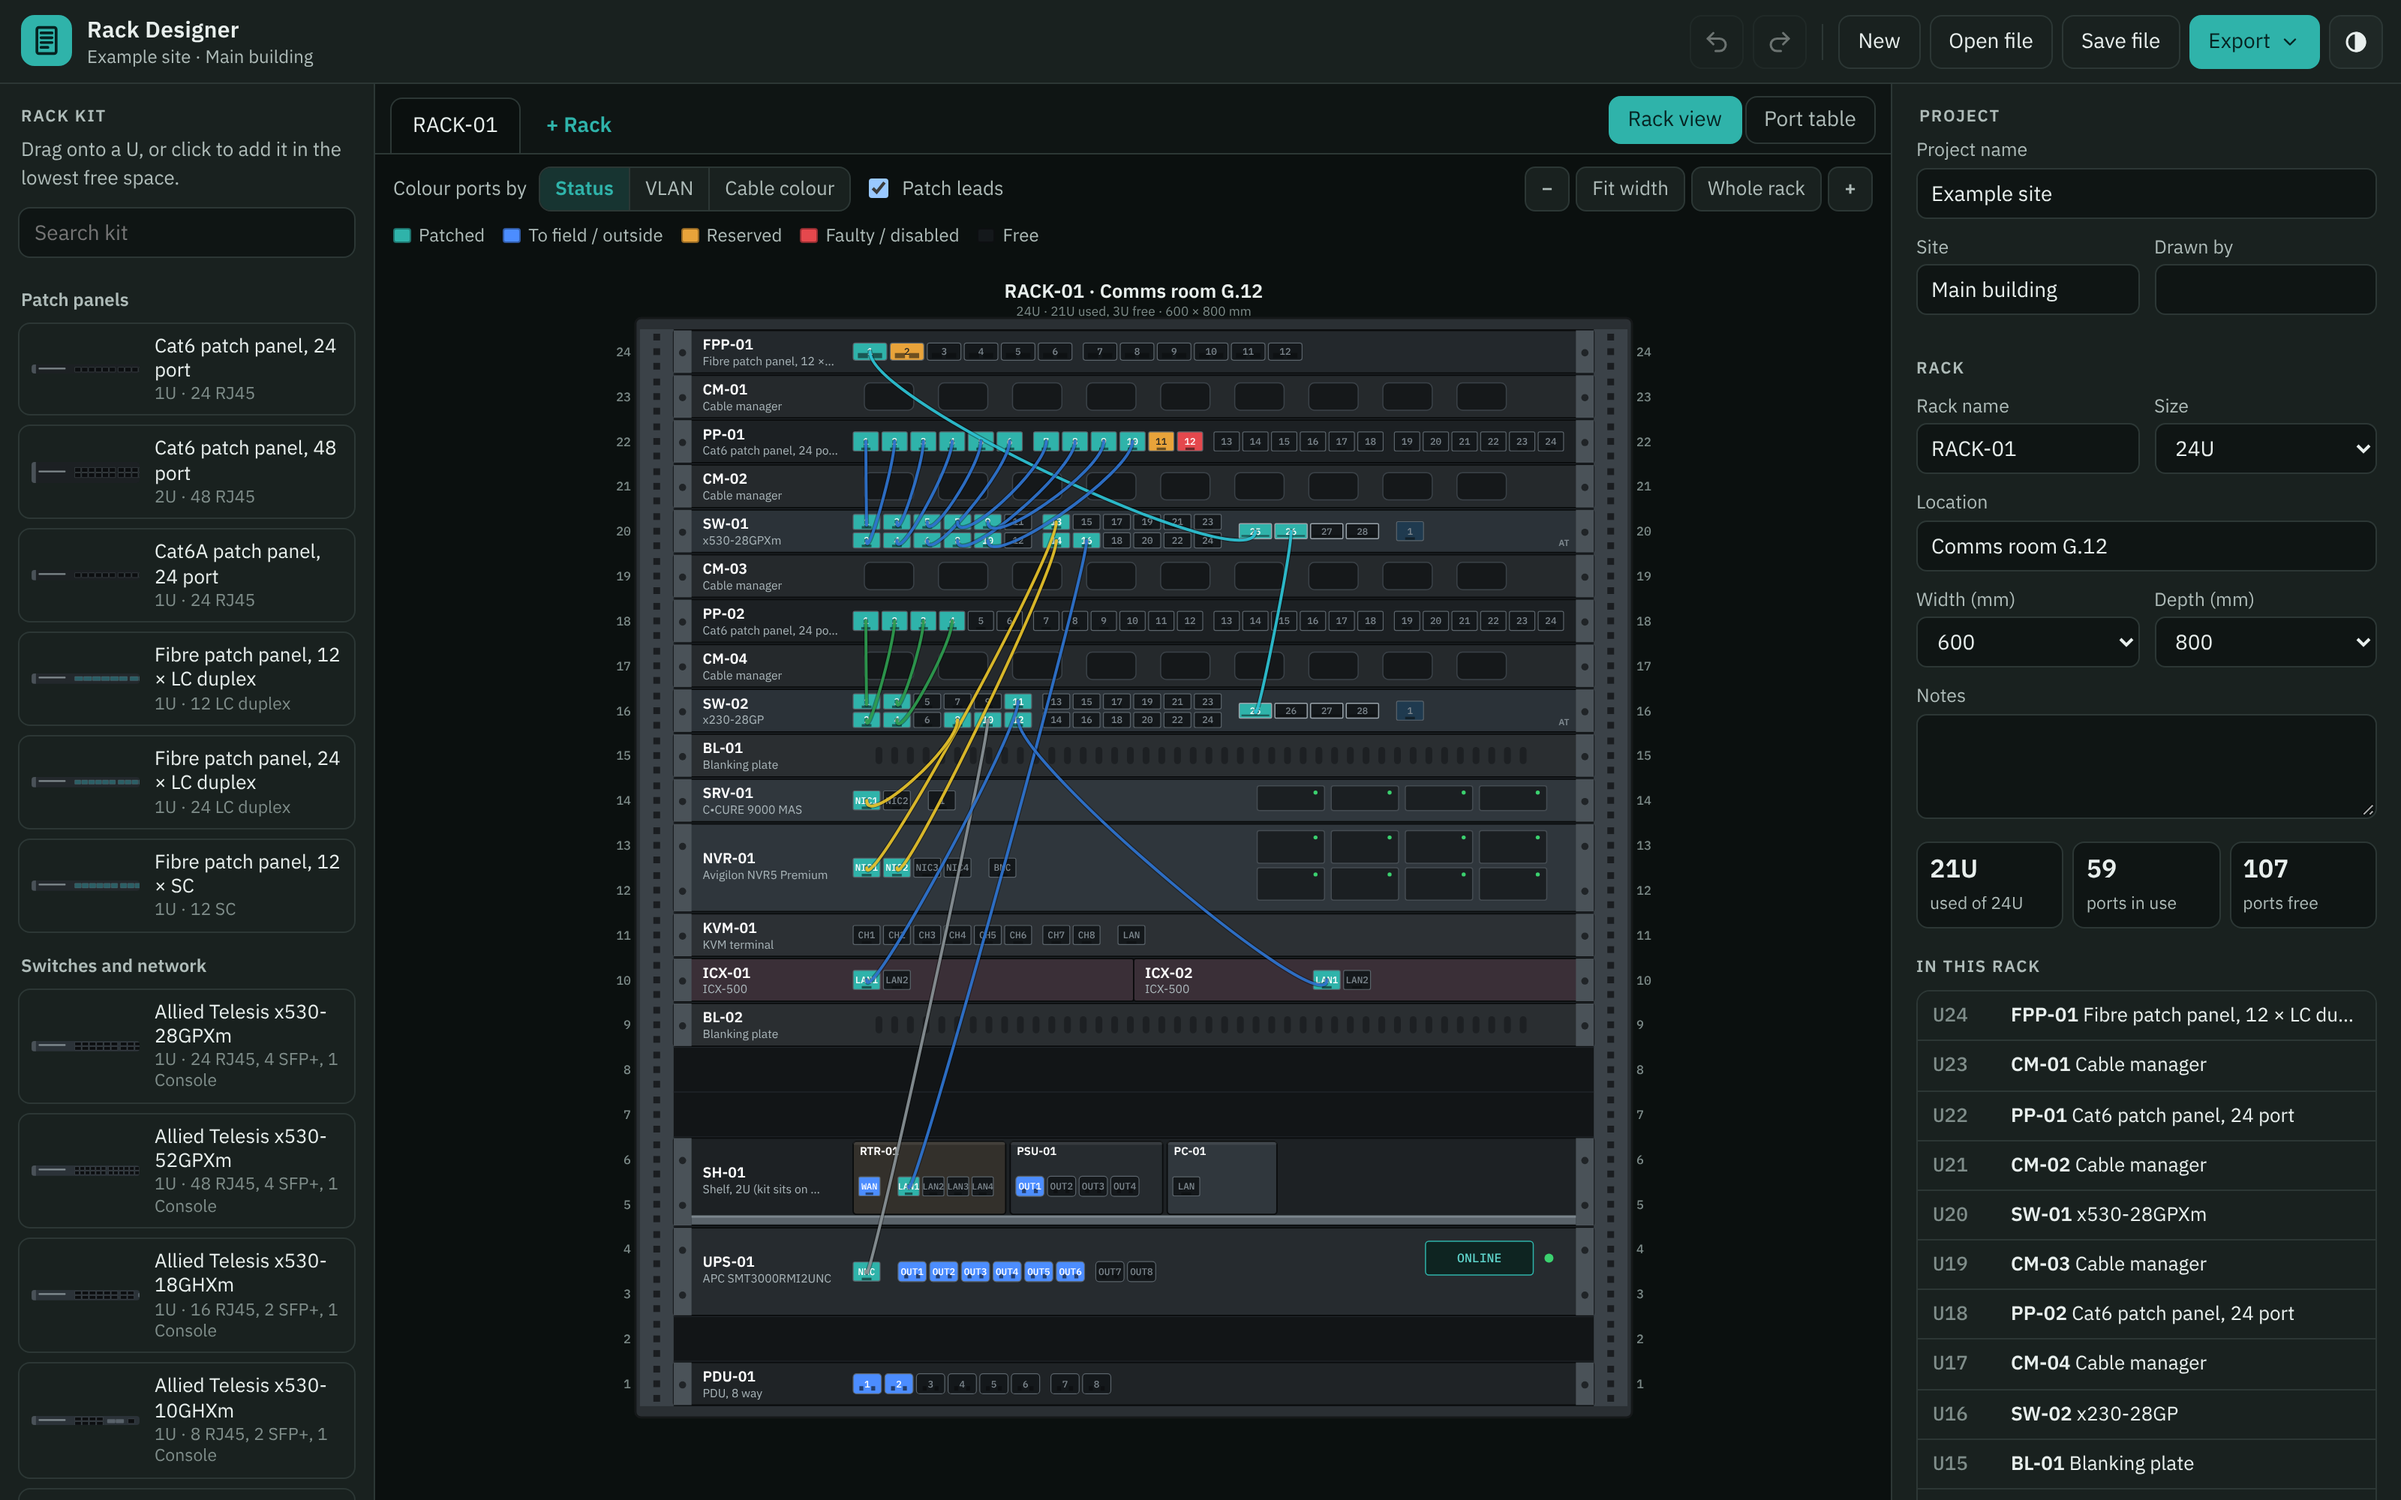
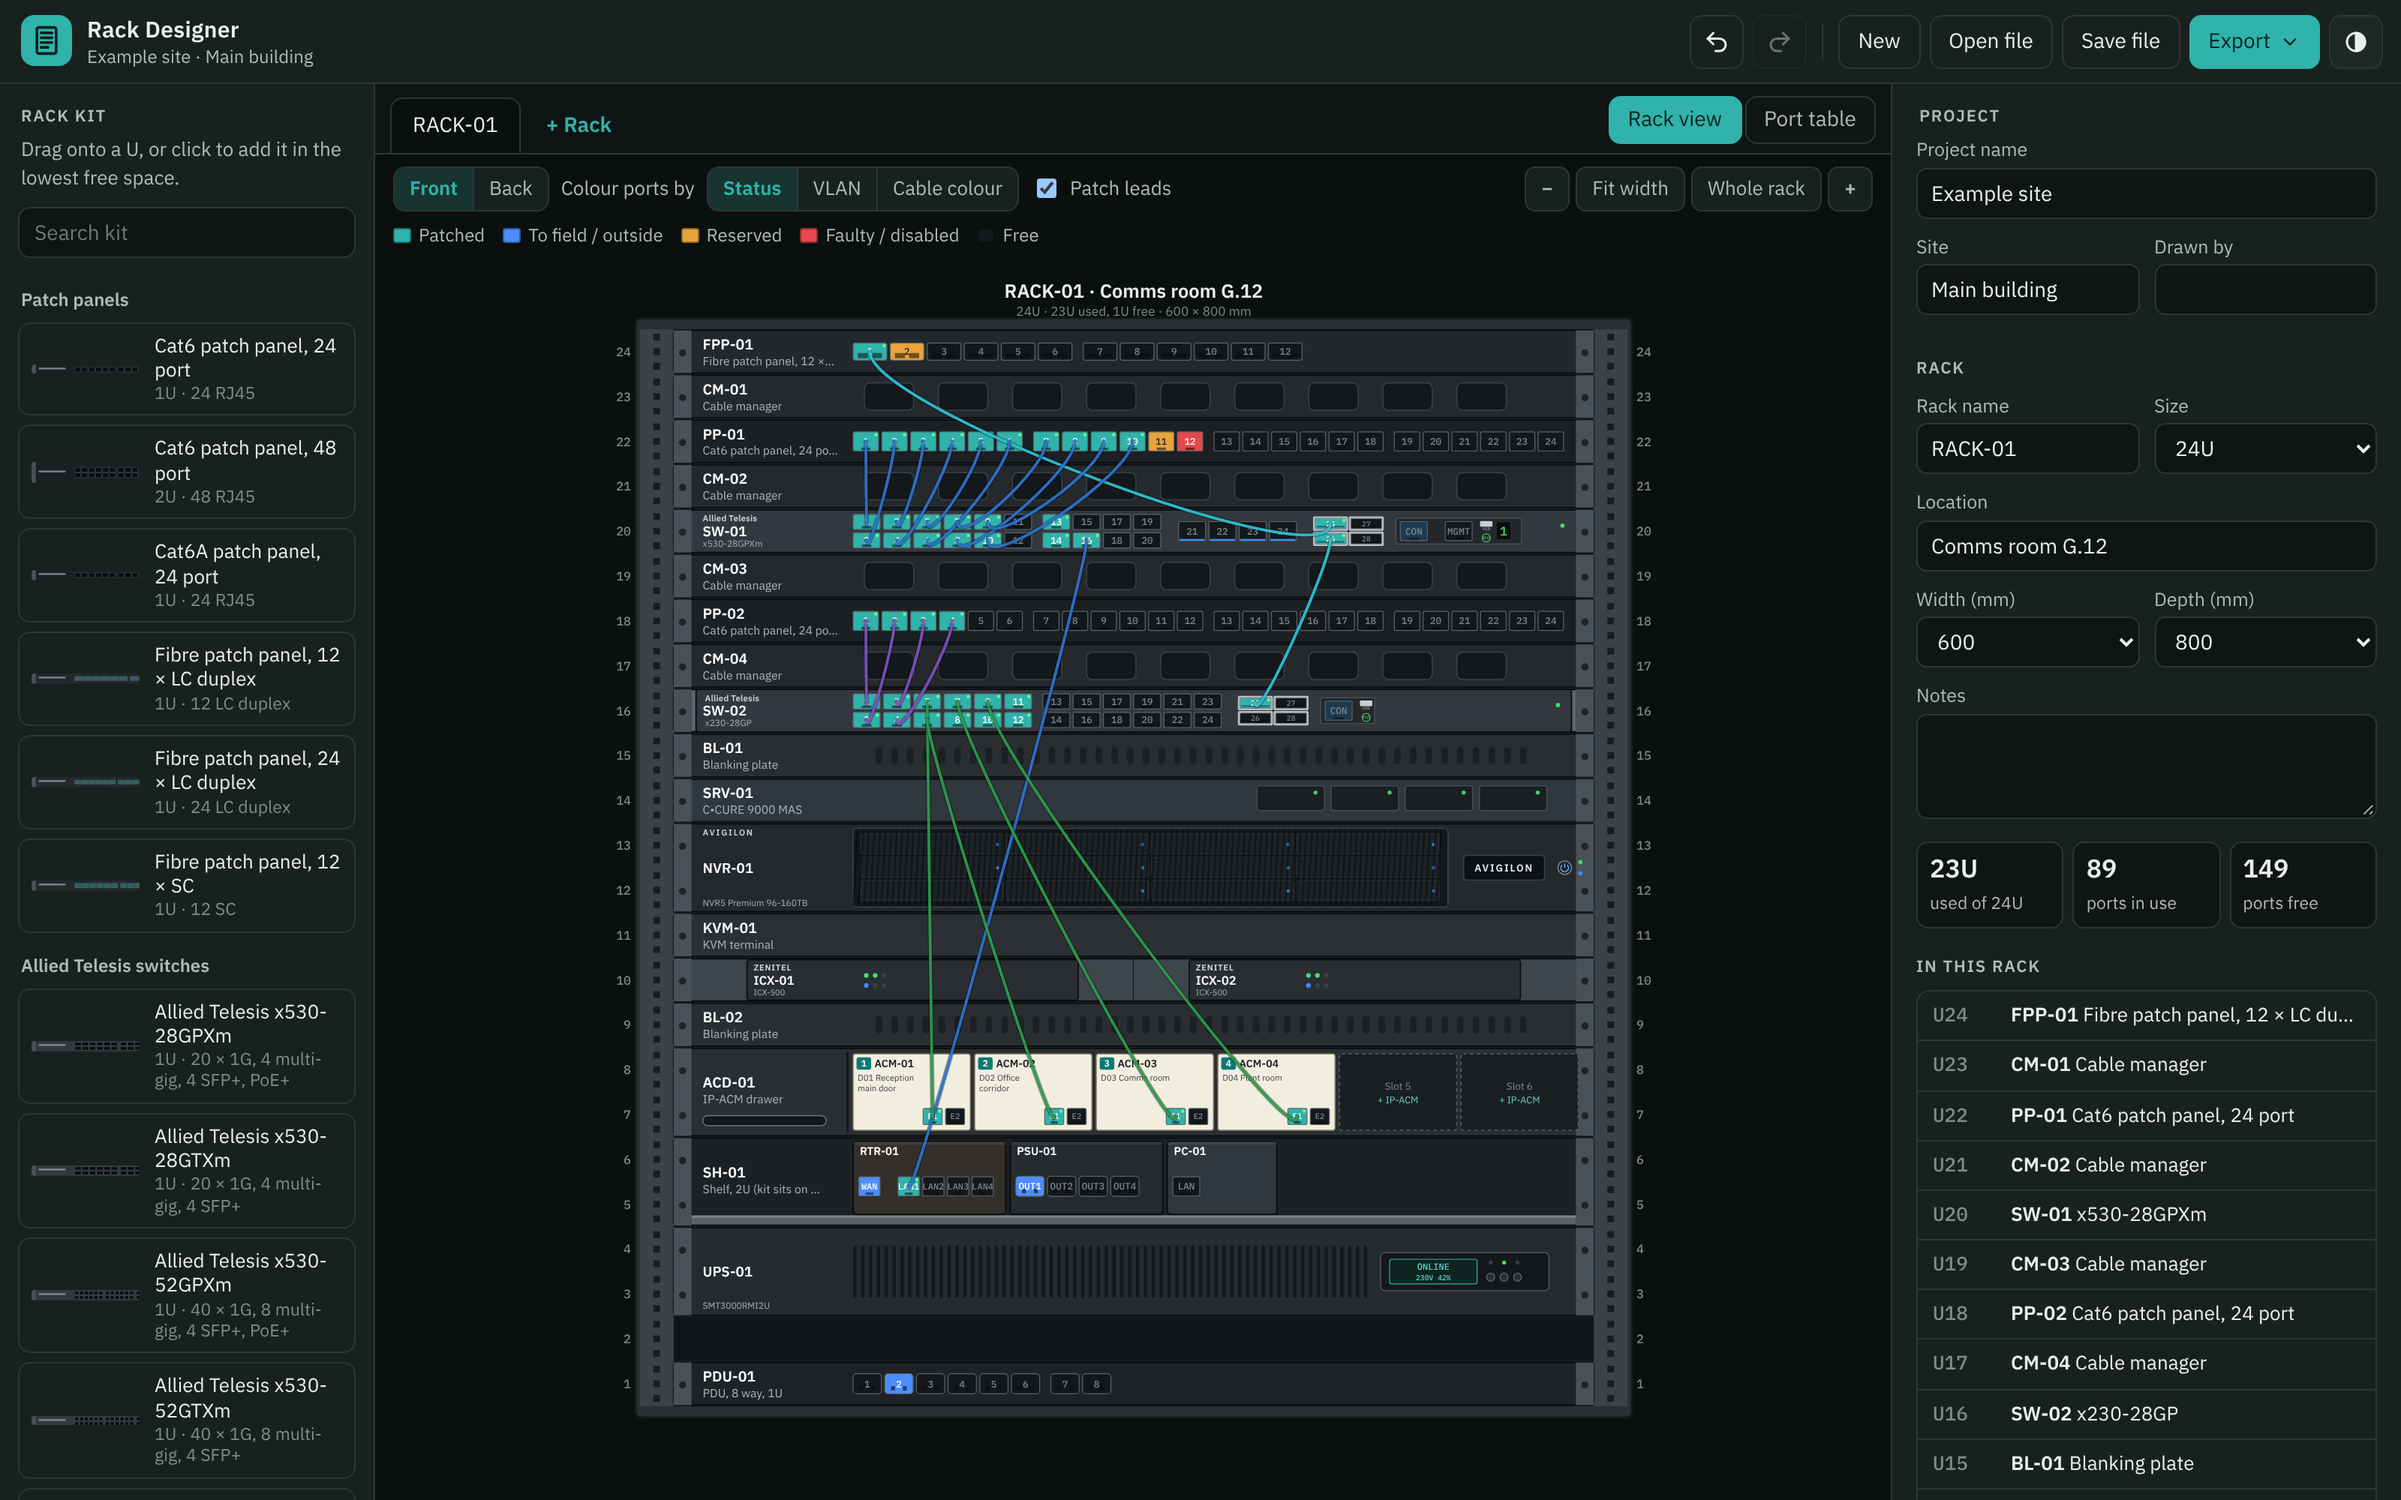
README: at-a-glance list, fresh screenshots and example exports for the new kit
- New screenshots: back view with the UPS outlets list, IP-ACM drawer open,
  faceplate close-ups with link lights, device details with the Model box
- Refreshed every older screenshot (hover pop-up, port details, VLAN colours,
  port table, export menu, dark mode, laptop and phone) to show the new kit
- Front and back PNG export, and PDF pages including the power schedule
- Example exports regenerated, plus a front-and-back rack picture

Claude-Session: https://claude.ai/code/session_017NfEFP79B3n4fgFVMekLoi

diff --git a/README.md b/README.md
@@ -4,10 +4,23 @@ Design comms and server racks visually, allocate every switch, patch panel and d
 
 Rack Designer is **one HTML file** that runs in any modern browser. There is nothing to install, no server and no account, and it works fully offline: the page's security policy blocks all network access, so nothing you draw ever leaves your computer.
 
-![Rack Designer showing the example rack, with patch leads drawn between patch panels and switches](docs/screenshots/rack-view.png)
+![Rack Designer showing the example rack, with patch leads drawn between patch panels, switches and IP-ACMs](docs/screenshots/rack-view.png)
+
+## At a glance
+
+- **Draw racks to scale**: drag kit into place by the U, with half-width units, shelves of desktop kit, and several racks per project.
+- **Real-looking kit**: Allied Telesis x530 and x230 switches, Zenitel ICX units, Avigilon NVR5 recorders and rack UPSs are drawn like their real front panels, with green link lights on patched ports.
+- **Front and back**: turn the rack round to see the ports, power inlets and 0U PDUs on the back.
+- **Every port allocated**: patch leads, outside connections, VLANs, cable IDs and colours, speed, PoE, reserved and faulty ports.
+- **Power**: choose the UPS or PDU outlet that feeds each power supply, and get a power schedule.
+- **C•CURE IP-ACM drawer**: a 2U pull-out drawer with six labelled IP-ACM door modules, shown open or shut.
+- **Hover pop-ups** that trace a cable from the switch, through the patch panel, to the field device.
+- **Exports**: Excel, CSV and PDF port and power schedules, plus PNG, SVG and PDF pictures of the rack, front and back.
+- **Works anywhere**: desktop, laptop or phone, light or dark, fully offline.
 
 ## Contents
 
+- [At a glance](#at-a-glance)
 - [Getting started](#getting-started)
 - [Features](#features)
   - [Drawing a rack](#drawing-a-rack)
@@ -23,6 +36,8 @@ Rack Designer is **one HTML file** that runs in any modern browser. There is not
   - [Laptops, tablets and phones](#laptops-tablets-and-phones)
   - [Light and dark](#light-and-dark)
 - [Kit library](#kit-library)
+  - [Real-looking faceplates](#real-looking-faceplates)
+  - [Changing a model](#changing-a-model)
 - [Keyboard shortcuts](#keyboard-shortcuts)
 - [Building from source](#building-from-source)
 - [Repository layout](#repository-layout)
@@ -32,7 +47,7 @@ Rack Designer is **one HTML file** that runs in any modern browser. There is not
 
 1. Download [`dist/system-draw-rack-designer.html`](dist/system-draw-rack-designer.html) (on GitHub, open the file and press **Download raw file**).
 2. Double-click it to open it in Chrome, Edge, Firefox or Safari.
-3. The first time it opens you get an example project, a 24U comms rack with patch panels, switches, servers, a shelf of desktop kit and a UPS, so you can see how everything fits together. Press **New** and type `1` for an empty 42U rack, or `2` to get the example back.
+3. The first time it opens you get an example project: a 24U comms rack with patch panels, Allied Telesis x530 and x230 switches, a C•CURE server, an Avigilon NVR5, two Zenitel ICX units, an IP-ACM drawer, a shelf of desktop kit, a UPS, a PDU and two 0U PDUs at the back, all patched and powered, so you can see how everything fits together. Press **New** and type `1` for an empty 42U rack, or `2` to get the example back.
 
 That's it. Your work is kept in the browser as you go, and **Save file** writes it to a `.rack.json` file you can keep, email or open on another machine.
 
@@ -56,6 +71,10 @@ The **Front / Back** switch above the rack turns it round. The back view is draw
 - Ports that are on the back of the real kit are only on the back view: server and NVR network and iDRAC ports, the Zenitel ICX Ethernet and console ports, UPS outlets and network card, KVM ports, and every power inlet.
 - Patch leads are drawn on the view that shows both ends. Picking a port from the port table, a patch link or the panel turns the rack round if it's on the other side.
 - Designs saved before the back view existed are moved across when they're opened: catalogue kit gets its back ports put on the back.
+
+![The back of the example rack with UPS-01 selected: power leads from its outlets to each PSU, and its Outlets list on the right](docs/screenshots/back-view-app.png)
+
+The back view on its own, as it appears in the picture exports, with the two 0U PDUs hanging at the sides:
 
 ![The back of the example rack: power inlets, UPS outlets, server NICs and two 0U PDUs at the sides](docs/screenshots/rear-view.png)
 
@@ -81,7 +100,13 @@ The **IP-ACM pull-out drawer** is 2U and holds six Software House IP-ACM v2 door
 
 I couldn't find a Software House part number for a six-board 2U drawer, so it's drawn as a plain drawer with label windows.
 
-![An IP-ACM drawer with four labelled boards and two empty slots](docs/screenshots/acm-drawer.png)
+Shut, the drawer front shows a label window for each slot:
+
+![An IP-ACM drawer, shut, with four labelled boards and two empty slots](docs/screenshots/acm-drawer.png)
+
+Open, the boards themselves show, with their Ethernet ports and link lights:
+
+![The same drawer shown open: four IP-ACM boards with ETH1 patched](docs/screenshots/acm-drawer-open.png)
 
 ### Allocating ports
 
@@ -162,11 +187,20 @@ Tick **Include free ports in tables** to list unused ports as well.
 | **All racks side by side (PNG)** | Every rack in the project in one picture. |
 | **This rack, front and back (PDF)** | Just the rack drawings on an A3 page. |
 
-Examples of every export made from the built-in example project are in [`examples/`](examples/).
+Exports made from the built-in example project are in [`examples/`](examples/):
 
-<p align="center"><img src="docs/screenshots/export-rack.png" alt="The exported PNG of RACK-01" width="420"></p>
+- [`example-port-allocation.xlsx`](examples/example-port-allocation.xlsx): the Excel workbook, with its Port allocation, Cable schedule, Rack layout and Power sheets
+- [`example-port-allocation.csv`](examples/example-port-allocation.csv): the CSV port table
+- [`example-rack-design.pdf`](examples/example-rack-design.pdf): the full PDF report
+- [`example-rack-01.png`](examples/example-rack-01.png) and [`example-rack-01-front-and-back.png`](examples/example-rack-01-front-and-back.png): rack pictures
 
-![The first two pages of the PDF export: rack layout with device list, and the port allocation table](docs/screenshots/pdf-export.png)
+**This rack, front and back (PNG)** from the example project:
+
+![The exported front and back picture of RACK-01](docs/screenshots/export-rack.png)
+
+Three pages of the PDF report: the rack front and back with its device list, the port allocation table, and the power schedule:
+
+![Pages 1, 2 and 5 of the PDF export: rack layout, port allocation and power schedule](docs/screenshots/pdf-export.png)
 
 ### Saving your work
 
@@ -207,9 +241,23 @@ Allied Telesis switches and Zenitel ICX units are drawn like their real front pa
 
 Port counts and positions come from Allied Telesis's x530 installation guide and x230 datasheet, Zenitel's ICX-500 installation manual and Avigilon's NVR5 datasheet. The x530-10GHXm, x530-18GHXm and x530L layouts weren't in those documents, so check them against the real kit.
 
+Close up, from the example rack: an x530-28GPXm and an x230-28GP with green link lights on the patched ports, two ICX-500s side by side, an NVR5 Premium, a Smart-UPS style UPS and the IP-ACM drawer open.
+
+![Close-ups of the switch, ICX, NVR, UPS and IP-ACM drawer faceplates](docs/screenshots/kit-closeups.png)
+
+Every Allied Telesis and Zenitel model in the library:
+
 ![Allied Telesis and Zenitel faceplates](docs/screenshots/faceplates.png)
 
 ![Avigilon NVR5 recorders and rack UPS fronts](docs/screenshots/avigilon-ups.png)
+
+### Changing a model
+
+Click a switch, ICX, recorder or UPS and pick another model from the **Model** box in its details. The faceplate redraws and the allocations move across to the ports with the same name and type. If any would be lost (for example going from a 52 port switch to a 28 port one) you're asked first. The details also hold the label, position, width, IP address, serial number, notes, power inlets and a grid of every port, coloured by status.
+
+![SW-01 selected: its Model box, power inlet and port grid](docs/screenshots/device-details.png)
+
+### All the kit
 
 | Group | Kit |
 | --- | --- |
